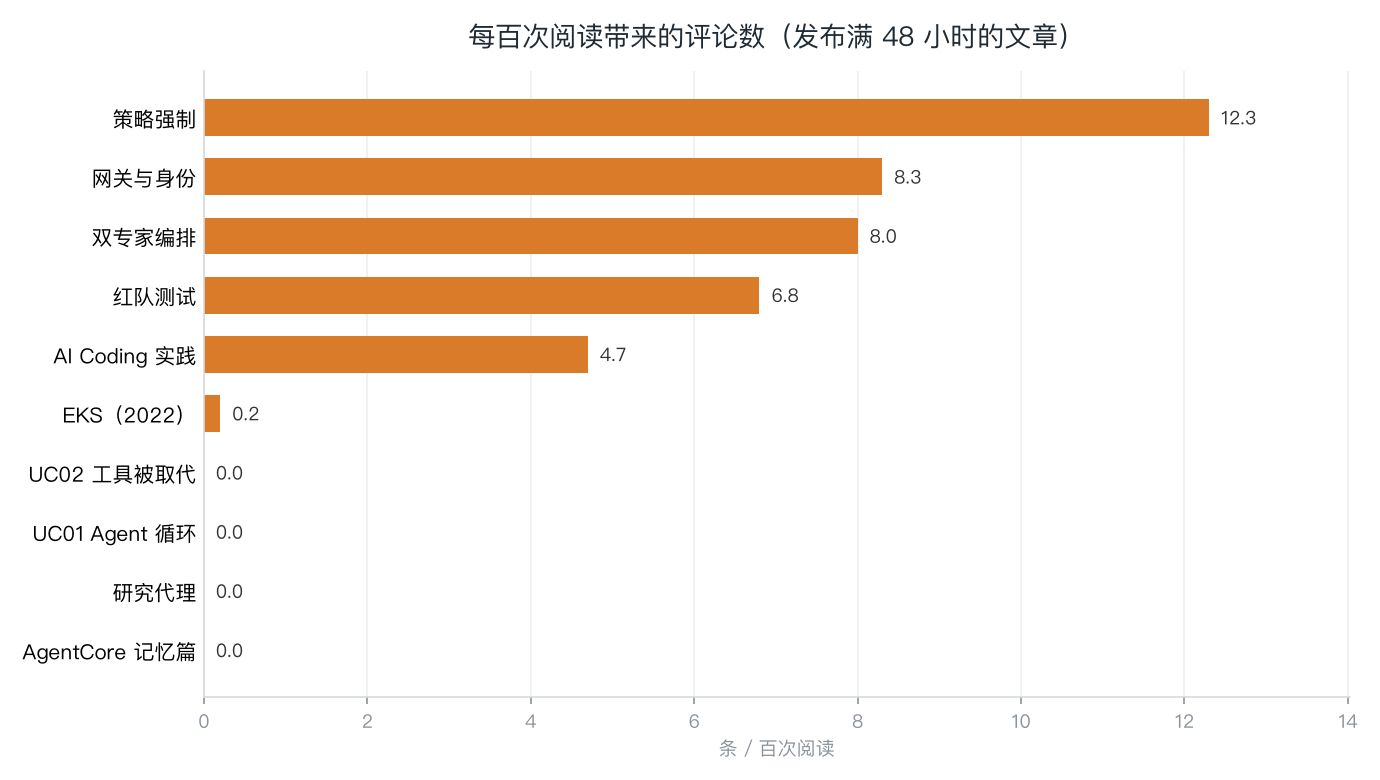
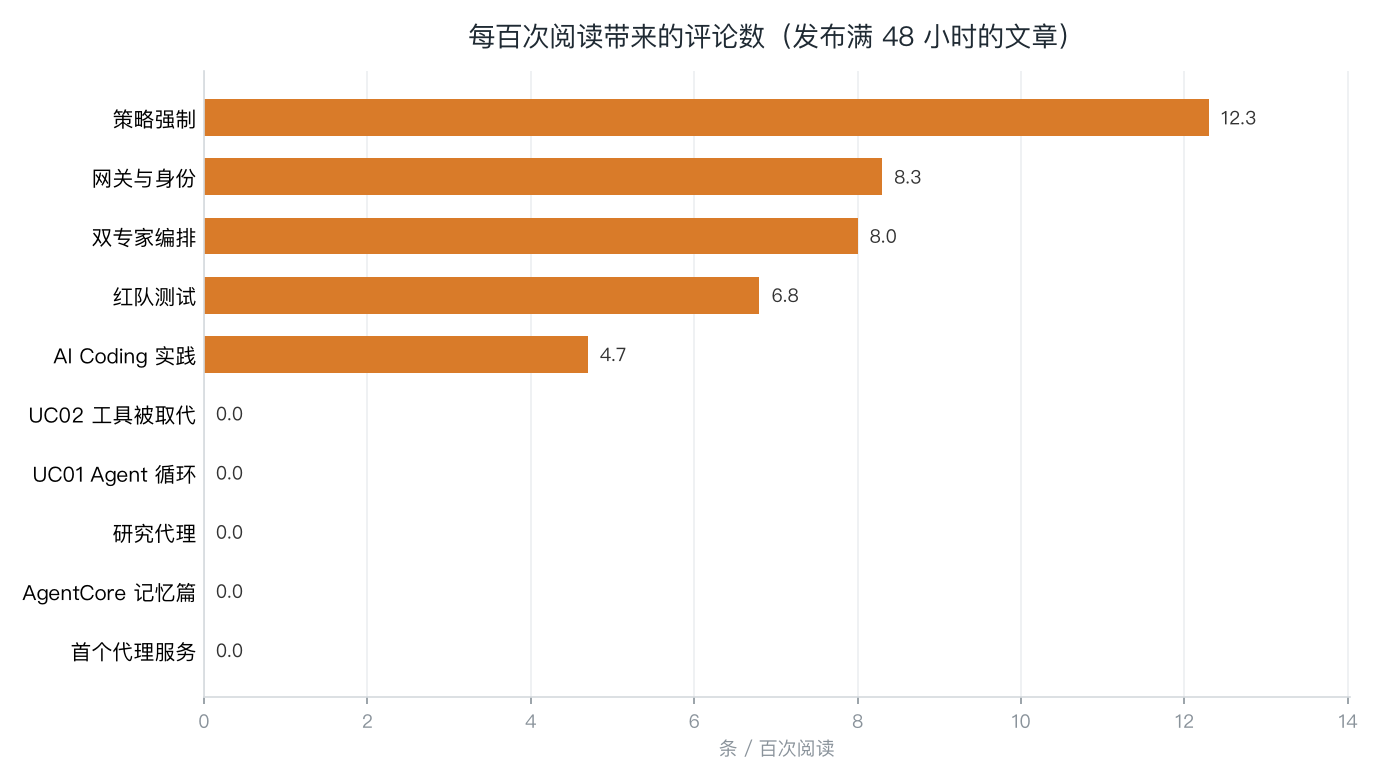
engagement: restrict stats to articles published from Sep 2026

diff --git a/writing-lab/engagement/reports/2026-11-07.html b/writing-lab/engagement/reports/2026-11-07.html
@@ -1,6 +1,6 @@
 <div style="font-family:-apple-system,'PingFang SC','Microsoft YaHei',sans-serif;color:#1f2a33;max-width:800px">
 <h2 style="margin:0 0 4px">文章反馈日报 · 2026-11-07</h2>
-<p style="color:#8a939b;font-size:13px;margin:0 0 18px">数据截止 2026-11-07T21:30:39+08:00 ｜ Dev.to 与 Builder Center 分渠道统计，不相加</p>
+<p style="color:#8a939b;font-size:13px;margin:0 0 18px">数据截止 2026-11-07T21:59:05+08:00 ｜ Dev.to 与 Builder Center 分渠道统计，不相加</p>
 <table style="border-collapse:collapse;font-size:14px;margin-bottom:8px">
 <tr style="background:#f2f6f9">
 <th style="padding:8px 14px;border:1px solid #e6eaed">Dev.to 阅读</th>
@@ -9,12 +9,12 @@
 <th style="padding:8px 14px;border:1px solid #e6eaed">BC 点赞</th>
 <th style="padding:8px 14px;border:1px solid #e6eaed">BC 评论</th></tr>
 <tr style="text-align:center;font-size:17px;font-weight:600">
-<td style="padding:10px;border:1px solid #e6eaed">6737</td>
-<td style="padding:10px;border:1px solid #e6eaed">97</td>
-<td style="padding:10px;border:1px solid #e6eaed">36</td>
-<td style="padding:10px;border:1px solid #e6eaed">1266</td>
+<td style="padding:10px;border:1px solid #e6eaed">866</td>
+<td style="padding:10px;border:1px solid #e6eaed">48</td>
+<td style="padding:10px;border:1px solid #e6eaed">34</td>
+<td style="padding:10px;border:1px solid #e6eaed">1267</td>
 <td style="padding:10px;border:1px solid #e6eaed">350</td></tr></table>
-<p style="font-size:13px;color:#5a6672">共 18 篇文章。Medium 未采集（本机网络不可达），主站为静态站无互动指标。</p>
+<p style="font-size:13px;color:#5a6672">共 15 篇文章。Medium 未采集（本机网络不可达），主站为静态站无互动指标。</p>
 <h3 style="margin:26px 0 8px;font-size:16px;color:#1f2a33">Dev.to 阅读量</h3><img src="https://xiongpin.dev/images/engagement/2026-11-07/devto-views.png" alt="Dev.to 阅读量" style="width:100%;max-width:760px;border:1px solid #e6eaed;border-radius:6px">
 <h3 style="margin:26px 0 8px;font-size:16px;color:#1f2a33">Builder Center 点赞</h3><img src="https://xiongpin.dev/images/engagement/2026-11-07/bc-likes.png" alt="Builder Center 点赞" style="width:100%;max-width:760px;border:1px solid #e6eaed;border-radius:6px">
 <h3 style="margin:26px 0 8px;font-size:16px;color:#1f2a33">评论率</h3><img src="https://xiongpin.dev/images/engagement/2026-11-07/comment-rate.png" alt="评论率" style="width:100%;max-width:760px;border:1px solid #e6eaed;border-radius:6px">

diff --git a/writing-lab/engagement/report.py b/writing-lab/engagement/report.py
@@ -30,6 +30,8 @@ plt.rcParams["font.sans-serif"] = ["PingFang SC", "Hiragino Sans GB", "Arial Uni
 plt.rcParams["axes.unicode_minus"] = False
 BLUE, TEAL, ORANGE, GREY = "#2f6f9f", "#3aa39a", "#d97b29", "#8a939b"
 
+CUTOFF = "2026-09-01"  # Pin, 2026-11-07: only articles published from Sep 2026 on
+
 SHORT = [
     ("how-the-strands-agent-loop", "UC01 Agent 循环"),
     ("the-tools-that-got-replaced", "UC02 工具被取代"),
@@ -98,6 +100,8 @@ def main() -> int:
 
     rows = []
     for slug, a in arts.items():
+        if (a.get("published_at") or "")[:10] < CUTOFF:
+            continue  # older articles are stock, not signal
         d = a["devto"]
         b = a.get("bc") or {}
         rows.append({

diff --git a/writing-lab/engagement/scan.py b/writing-lab/engagement/scan.py
@@ -157,6 +157,8 @@ def main() -> int:
              "|---|---|---|---|---|---|---|---|"]
     for slug, s in sorted(snapshot.items(),
                           key=lambda kv: kv[1].get("published_at") or "", reverse=True):
+        if (s.get("published_at") or "")[:10] < "2026-09-01":
+            continue  # Pin, 2026-11-07: only Sep-2026 onward belongs in the report
         d, b = s["devto"], s["bc"] or {}
         title = s["title"][:58].replace("|", "\\|")
         lines.append(f"| [{title}]({d['url']}) | {s['series']} | "

diff --git a/writing-lab/engagement/data/dashboard.md b/writing-lab/engagement/data/dashboard.md
@@ -1,8 +1,8 @@
-# Engagement dashboard — 2026-11-07T21:30:39+08:00
+# Engagement dashboard — 2026-11-07T21:59:05+08:00
 
 | article | series | published | devto views | devto reactions | devto comments | BC likes | BC comments |
 |---|---|---|---|---|---|---|---|
-| [It Remembers Across Restarts — and Forgets Mid-Conversatio](https://dev.to/aws-builders/it-remembers-across-restarts-and-forgets-mid-conversation-1ehh) | strands-in-action | 2026-11-07 | 9 | 4 | 4 | 71 | 2 |
+| [It Remembers Across Restarts — and Forgets Mid-Conversatio](https://dev.to/aws-builders/it-remembers-across-restarts-and-forgets-mid-conversation-1ehh) | strands-in-action | 2026-11-07 | 9 | 4 | 4 | 72 | 2 |
 | [The Limits That Don't Limit](https://dev.to/aws-builders/the-limits-that-dont-limit-2o4j) | strands-in-action | 2026-11-06 | 63 | 22 | 6 | 20 | 4 |
 | [The Tools That Got Replaced](https://dev.to/aws-builders/the-tools-that-got-replaced-2hod) | strands-in-action | 2026-11-05 | 39 | 1 | 0 | 17 | 2 |
 | [How the Strands Agent Loop Actually Works](https://dev.to/aws-builders/how-the-strands-agent-loop-actually-works-2m17) | strands-in-action | 2026-11-04 | 15 | 0 | 0 | 11 | None |

diff --git a/writing-lab/engagement/reports/2026-11-07.md b/writing-lab/engagement/reports/2026-11-07.md
@@ -1,7 +1,7 @@
 # 文章反馈日报 · 2026-11-07
 
-Dev.to：18 篇 / 6737 阅读 / 97 reactions / 36 评论
-BC：1266 赞 / 350 评论（口径不同，不相加）
+Dev.to：15 篇 / 866 阅读 / 48 reactions / 34 评论
+BC：1267 赞 / 350 评论（口径不同，不相加）
 
 - Dev.to 阅读量：https://xiongpin.dev/images/engagement/2026-11-07/devto-views.png
 - Builder Center 点赞：https://xiongpin.dev/images/engagement/2026-11-07/bc-likes.png

diff --git a/writing-lab/engagement/data/new-comments.md b/writing-lab/engagement/data/new-comments.md
@@ -1,3 +1,3 @@
-# New comments discovered at 2026-11-07T21:30:39+08:00
+# New comments discovered at 2026-11-07T21:59:05+08:00
 
 none
